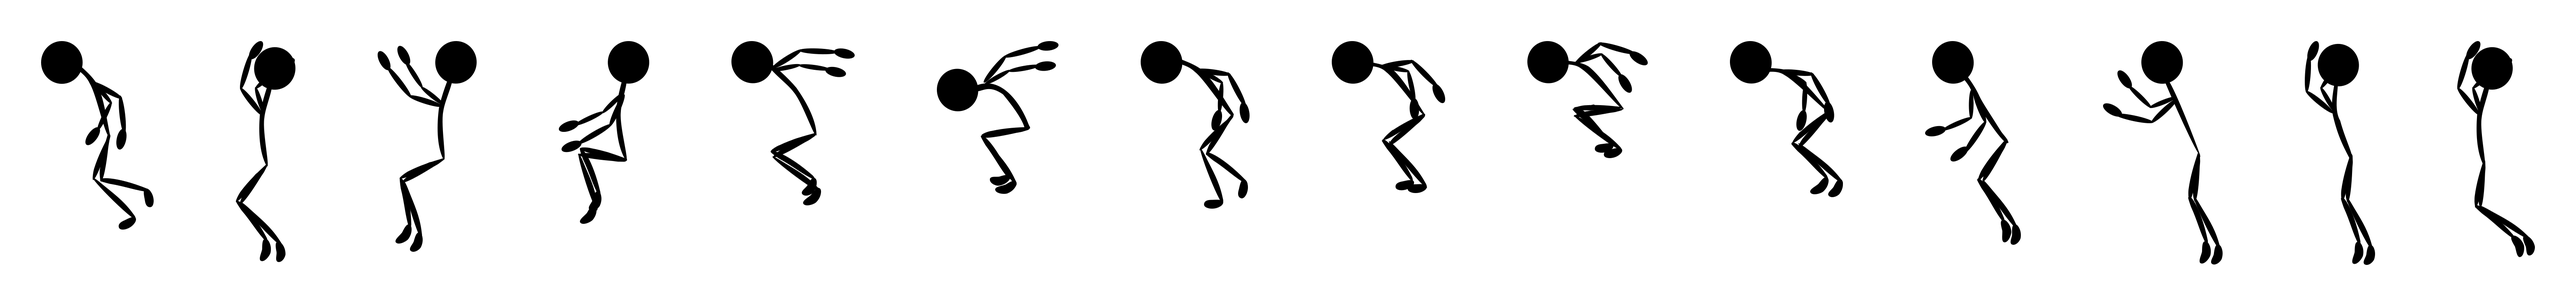
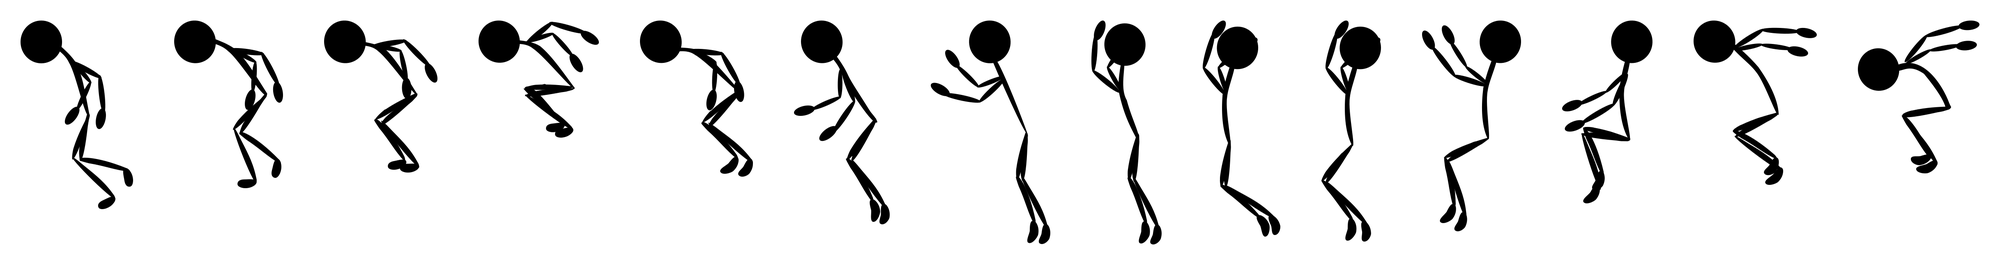
working on animation

diff --git a/core/src/main/java/edu/cnm/deepdive/lordofthesticks/StickTest.java b/core/src/main/java/edu/cnm/deepdive/lordofthesticks/StickTest.java
@@ -16,7 +16,6 @@ import com.badlogic.gdx.maps.tiled.renderers.OrthogonalTiledMapRenderer;
 import com.badlogic.gdx.math.Vector2;
 import com.badlogic.gdx.math.Vector3;
 import com.badlogic.gdx.physics.box2d.Box2DDebugRenderer;
-import com.badlogic.gdx.physics.box2d.Fixture;
 import com.badlogic.gdx.physics.box2d.World;
 import com.badlogic.gdx.utils.viewport.FitViewport;
 import com.badlogic.gdx.utils.viewport.Viewport;
@@ -24,7 +23,7 @@ import com.badlogic.gdx.utils.viewport.Viewport;
 public class StickTest extends ApplicationAdapter implements ApplicationListener {
 
   private static final int FRAME_COLS = 2, FRAME_ROWS = 1;
-  private static final int FRAME_COLUMNS =14, FRAME_ACROSS = 1;
+  private static final int FRAME_COLUMNS =14, FRAME_ACROSS = 2;
   private static final float SCALE = 1.5f;
   public static final float PIXEL_PER_METER = 28f;
   private static final float TIME_STEP = 1 / 60f;
@@ -34,9 +33,11 @@ public class StickTest extends ApplicationAdapter implements ApplicationListener
   private static final float VELOCITY_X = 0;
   private static final String MAP_PATH = "map/GameMap.tmx";
   private OrthographicCamera orthographicCamera;
-  private Box2DDebugRenderer box2DDebugRenderer;
+  private OrthogonalTiledMapRenderer tiledMapRenderer;
   private Viewport gamePort;
+  private Box2DDebugRenderer box2DDebugRenderer;
   private World world;
+  private TiledMap tiledMap;
   private Player player;
   private SpriteBatch spriteBatch;
   private Texture stickman;
@@ -44,8 +45,6 @@ public class StickTest extends ApplicationAdapter implements ApplicationListener
   private Texture runLeftSheet;
   private Texture jumpLeftSheet;
   private Texture jumpRightSheet;
-  private OrthogonalTiledMapRenderer tiledMapRenderer;
-  private TiledMap tiledMap;
   private Animation<TextureRegion> runRightAnimation;
   private Animation<TextureRegion> runLeftAnimation;
   private Animation<TextureRegion> jumpLeftAnimation;
@@ -57,8 +56,6 @@ public class StickTest extends ApplicationAdapter implements ApplicationListener
   private TextureRegion jumpingRight;
   public static final int V_Height = 500;
   public static final int V_WIDTH = 1000;
-  private WorldContactListener worldContactListener = new WorldContactListener();
-
   @Override
   public void create() {
     orthographicCamera = new OrthographicCamera();
@@ -183,8 +180,7 @@ public class StickTest extends ApplicationAdapter implements ApplicationListener
 
   private void inputUpdate () {
       int horizontalForce = 0;
-      boolean isJumpingRight = false;
-      boolean isJumpingLeft = false;
+      boolean isJumping = false;
 
       if (!Gdx.input.isTouched()){
         notMoving();
@@ -194,55 +190,50 @@ public class StickTest extends ApplicationAdapter implements ApplicationListener
           touchPos = orthographicCamera.unproject(touchPos);
 
           if (touchPos.x / PIXEL_PER_METER > player.getBody().getPosition().x
-                  && !player.isJumpingRight()
           ) {
             horizontalForce += 1;
             movingRight();
-          } else if (touchPos.x / PIXEL_PER_METER < player.getBody().getPosition().x
-                  && !player.isJumpingLeft()
+
+        } else if (touchPos.x / PIXEL_PER_METER < player.getBody().getPosition().x
           ) {
             horizontalForce -= 1;
             movingLeft();
           }
-          if (touchPos.y / PIXEL_PER_METER > player.getBody().getPosition().y
-                  && !player.isJumpingRight())
-            isJumpingRight = true;
-            horizontalForce += 1; {
-            rightJump();
+
+          if (touchPos.y / PIXEL_PER_METER > player.getBody().getPosition().y)
+            isJumping = true;
+          {
+            horizontalForce += 1;
           }
-           if (touchPos.y / PIXEL_PER_METER > player.getBody().getPosition().y
-                   && !player.isJumpingLeft())
-            isJumpingLeft = true;
-            horizontalForce -= 1; {
-            leftJump();
+          if (touchPos.y / PIXEL_PER_METER > player.getBody().getPosition().y &&
+                  player.isJumping())
+            isJumping = true;
+          leftJump();
+          {
+            horizontalForce -= 1;
           }
 
         }
-        playerUpdate(horizontalForce, isJumpingRight, isJumpingLeft);
+
+        playerUpdate(horizontalForce, isJumping);
 
   }
 
 
-
-
-    private void playerUpdate ( int horizontalForce, boolean isJumpingRight, boolean isJumpingLeft){
+    private void playerUpdate ( int horizontalForce, boolean isJumping){
       if (player.isDead()) {
         world.destroyBody(player.getBody());
         player = new Player(world);
       }
-      if (isJumpingRight) {
+      if (isJumping) {
         player.getBody().applyForceToCenter(0, Player.JUMP_FORCE, false);
         player.getBody().setLinearVelocity(horizontalForce * Player.RUN_FORCE, player.getBody().getLinearVelocity().y);
-        rightJump();
-      }
-      else if (isJumpingLeft) {
-        player.getBody().applyForceToCenter(0, Player.JUMP_FORCE, false);
-        player.getBody().setLinearVelocity(horizontalForce * Player.RUN_FORCE, player.getBody().getLinearVelocity().y);
-        leftJump();
+
       } else {
         player.getBody().setLinearVelocity(horizontalForce * Player.RUN_FORCE, player.getBody().getLinearVelocity().y);
-      }
     }
+  }
+
 
   private void notMoving() {
     spriteBatch.begin();
@@ -269,8 +260,8 @@ public class StickTest extends ApplicationAdapter implements ApplicationListener
 
   private void rightJump(){
     spriteBatch.begin();
-    jumpingRight = jumpRightAnimation.getKeyFrame(stateTime, true);
-    spriteBatch.draw(jumpingRight, player.getBody().getPosition().x * PIXEL_PER_METER - (jumpingRight.getTexture().getWidth()) + 190,
+    jumpingRight = jumpRightAnimation.getKeyFrame(stateTime, false);
+    spriteBatch.draw(jumpingRight, player.getBody().getPosition().x * PIXEL_PER_METER - (jumpingRight.getTexture().getWidth() / 4) + 190,
             player.getBody().getPosition().y * PIXEL_PER_METER - (jumpingRight.getTexture().getHeight() / 4), 150f, 250f);
     spriteBatch.end();
   }

diff --git a/core/src/main/java/edu/cnm/deepdive/lordofthesticks/Player.java b/core/src/main/java/edu/cnm/deepdive/lordofthesticks/Player.java
@@ -14,25 +14,19 @@ public class Player {
   private static final float PLAYER_START_X = 10f;
   private static final float PLAYER_START_Y = 20f;
   private Body body;
-  public boolean isJumpingRight = false;
-  public boolean isJumpingLeft = false;
+  public boolean isJumpingHigh = false;
   private boolean isDead = false;
 
   public void hit() {
     isDead = true;
   }
-  public void setJumpingRight(boolean jumpingRight) {
-    isJumpingRight = jumpingRight;
+  public void setJumping(boolean jumping) {
+    isJumpingHigh = jumping;
   }
-  public void setJumpingLeft(boolean jumpingLeft) {
-    isJumpingLeft = jumpingLeft;
+  public boolean isJumping() {
+    return isJumpingHigh;
   }
-  public boolean isJumpingRight() {
-    return isJumpingRight;
-  }
-  public boolean isJumpingLeft() {
-    return isJumpingLeft;
-  }
+
   public boolean isDead() {
     return isDead;
   }
@@ -49,7 +43,7 @@ public class Player {
     bdef.type = BodyDef.BodyType.DynamicBody;
     bdef.position.set(x, y);
     PolygonShape shape = new PolygonShape();
-    shape.setAsBox(BOX_SIZE / StickTest.PIXEL_PER_METER / 4, BOX_SIZE / StickTest.PIXEL_PER_METER / 4);
+    shape.setAsBox(BOX_SIZE / StickTest.PIXEL_PER_METER / 2, BOX_SIZE / StickTest.PIXEL_PER_METER / 2);
     FixtureDef fixtureDef = new FixtureDef();
     fixtureDef.shape = shape;
     fixtureDef.density = PLAYER_DENSITY;

diff --git a/core/src/main/java/edu/cnm/deepdive/lordofthesticks/WorldContactListener.java b/core/src/main/java/edu/cnm/deepdive/lordofthesticks/WorldContactListener.java
@@ -19,18 +19,16 @@ public class WorldContactListener implements ContactListener {
       return;
     if (isGroundContact(fa, fb)) {
       Player player = (Player) fb.getUserData();
-      player.setJumpingRight(false);
-      player.setJumpingLeft(false);
+      player.setJumping(false);
+
     }
     if (isGroundContact(fa, fb)){
       Player player = (Player) fb.getUserData();
-      player.setJumpingLeft(false);
-      player.setJumpingRight(false);
+      player.setJumping(false);
     }
     if (isDangerContact(fa, fb)) {
       Player player = (Player) fb.getUserData();
-      player.setJumpingRight(false);
-      player.setJumpingLeft(false);
+      player.setJumping(false);
       player.hit();
     }
   }
@@ -45,16 +43,15 @@ public class WorldContactListener implements ContactListener {
       return;
     if (isGroundContact(fa, fb)) {
       Player player = (Player) fb.getUserData();
-      player.setJumpingRight(true);
+      player.setJumping(true);
     }
     if (isGroundContact(fa, fb)) {
       Player player = (Player) fb.getUserData();
-      player.setJumpingLeft(true);
+      player.setJumping(true);
     }
     if (isDangerContact(fa, fb)) {
       Player player = (Player) fb.getUserData();
-      player.setJumpingRight(true);
-      player.setJumpingLeft(true);
+      player.setJumping(true);
     }
   }
 
